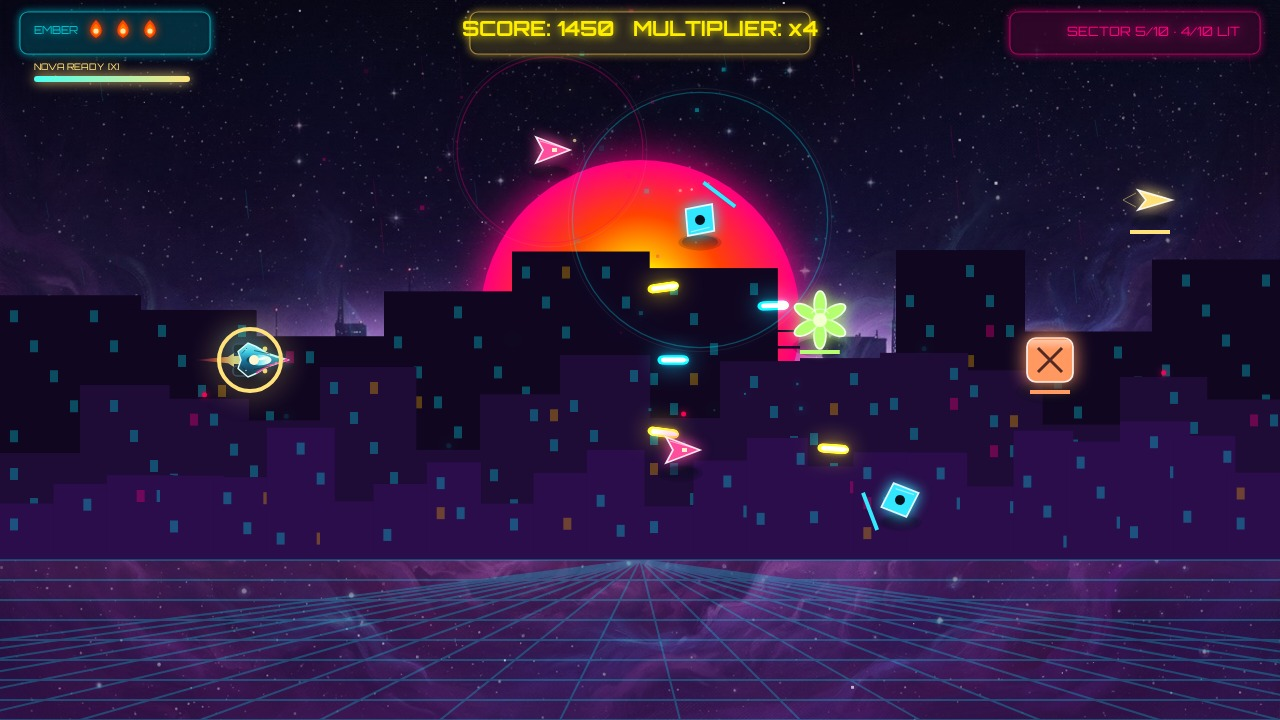
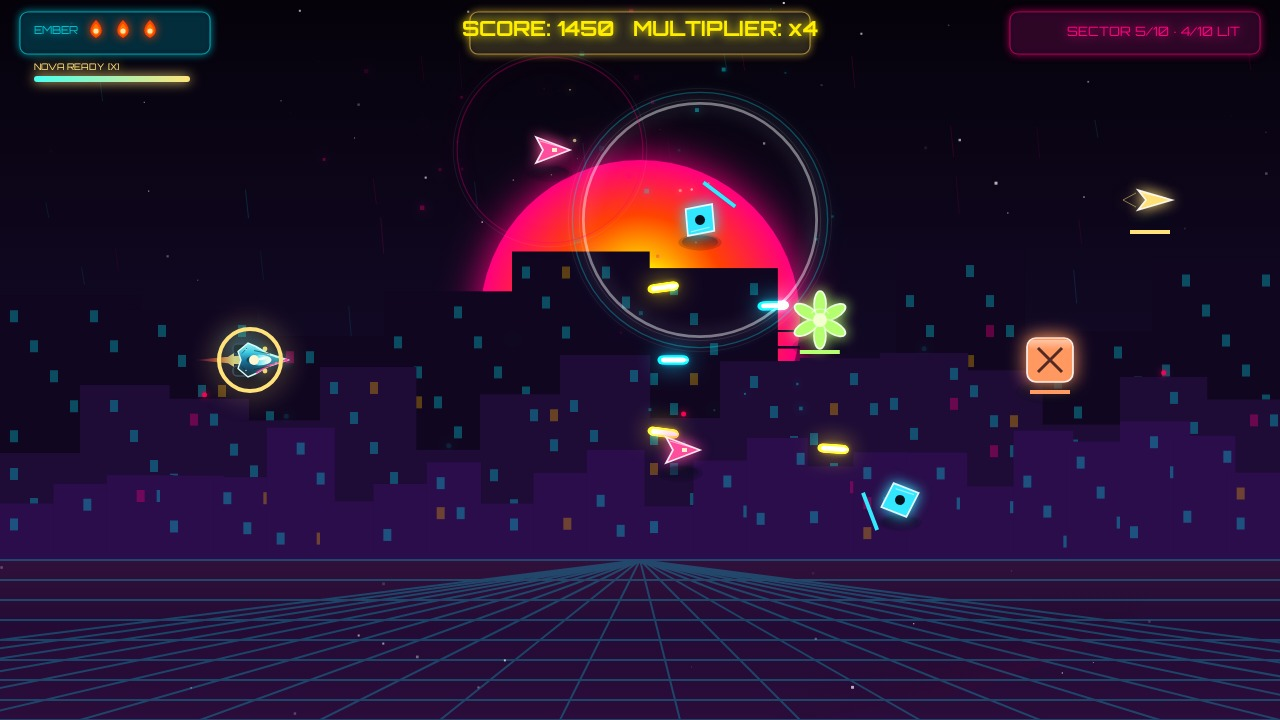
v6.5: remove all painted AI assets — fully procedural submission (provenance-safe)
- Removed 6 images whose redistribution terms could not be verified for a paid contest entry: fx-detonation/fx-muzzle-nova (SDXL-Turbo, Stability AI non-commercial license, Kaggle kernel ember-wing-fx-sprites-v1), far-city + nebula-sky + hollow-crown-boss + glass-manta (local image tool, terms unverifiable). A FLUX.1-schnell (Apache-2.0) regeneration kernel was queued on Kaggle but had not completed at submission time.
- Game already shipped procedural fallbacks for every asset path; fallback code paths removed with the assets, all draws remain vector/canvas.
- ATTRIBUTION.md rewritten to state provenance truthfully: no image/audio/video assets ship; key art is canvas-drawn; audio is synthesized; fonts are OFL with embedded license texts.
- Determinism: boss drift/sway no longer reads wall clock (simulated accumulators instead); captures md5-identical across loads on all 4 routes.
- Screenshots re-shot from this tree.

diff --git a/game/src/enemies.js b/game/src/enemies.js
@@ -3,20 +3,6 @@ import { CONFIG } from './config.js';
 
 export class EnemyManager {
   constructor(rng = null) {
-    // Painted finale boss render (v6): used only for sector-10 "Crown of Silence".
-    // Static asset; frame-independent; vector hulls remain for sectors 1-9.
-    this.glassManta = new Image();
-    this.glassManta.src = 'assets/v6/glass-manta.jpg';
-    this.glassMantaReady = new Promise((resolve) => {
-      this.glassManta.onload = () => resolve(true);
-      this.glassManta.onerror = () => resolve(false);
-    });
-    this.bossSprite = new Image();
-    this.bossSprite.src = 'assets/v6/hollow-crown-boss.jpg';
-    this.assetsReady = new Promise((resolve) => {
-      this.bossSprite.onload = () => resolve(true);
-      this.bossSprite.onerror = () => resolve(false);
-    });
     this.rng = rng;
     this.enemies = [];
     this.boss = null;
@@ -98,7 +84,8 @@ export class EnemyManager {
     else {
       b.y += b.vy * dt * (b.phase === 3 ? 1.35 : 1);
       if (b.y < 122 || b.y > 495) b.vy *= -1;
-      b.x = 1035 + Math.sin(performance.now() / 1100) * 22;
+      b.drift = (b.drift || 0) + dt;
+      b.x = 1035 + Math.sin(b.drift) * 22;
     }
     b.phase = b.hp <= b.maxHp * 0.28 ? 3 : b.hp <= b.maxHp * 0.62 ? 2 : 1;
     b.angle += dt * (0.8 + b.phase * 0.36);
@@ -255,27 +242,10 @@ export class EnemyManager {
     ctx.fill();
     ctx.restore();
 
-    // Painted finale (v6): sector 10 "Crown of Silence" — additive sprite, rings/eyes vector skipped
-    if (b.style === 0 && this.glassManta && this.glassManta.complete && this.glassManta.naturalWidth) {
-      ctx.save();
-      ctx.translate(b.x, b.y);
-      ctx.globalCompositeOperation = 'screen';
-      ctx.drawImage(this.glassManta, -185, -170, 370, 340);
-      ctx.restore();
-      return;
-    }
-    if (b.style === 9 && this.bossSprite && this.bossSprite.complete && this.bossSprite.naturalWidth) {
-      ctx.save();
-      ctx.translate(b.x, b.y);
-      ctx.globalCompositeOperation = 'screen';
-      ctx.drawImage(this.bossSprite, -170, -98, 340, 196);
-      ctx.restore();
-      return;
-    }
     ctx.save();
     ctx.translate(b.x, b.y);
     const color = b.phase === 1 ? b.color : b.phase === 2 ? '#ff955d' : '#ff4f9f';
-    ctx.rotate(Math.sin(performance.now() / 430) * 0.035);
+    ctx.rotate(Math.sin(b.angle * 2.0) * 0.035);
     ctx.strokeStyle = color; ctx.lineWidth = 3; ctx.shadowColor = color; ctx.shadowBlur = 22;
     // Concentric, original crown-orbit rings; telegraph glow intensifies before each attack.
     for (let ring = 0; ring < 3; ring++) {

diff --git a/game/src/particles.js b/game/src/particles.js
@@ -41,28 +41,6 @@ export class ParticleManager {
     this._push({ x, y, vx: 0, vy: 0, color, size, life, maxLife: life, shape: 'pool' });
   }
 
-  setFxSprites(sprites) {
-    this.fxSprites = sprites;
-  }
-
-  detonationFx(x, y, scale = 1) {
-    const img = this.fxSprites && this.fxSprites.detonation;
-    if (!img || !img.complete || !img.naturalWidth) return;
-    this._push({
-      x, y, vx: 0, vy: 0, color: '#ffffff', size: 150 * scale, life: 0.62, maxLife: 0.62,
-      shape: 'fx-detonation'
-    });
-  }
-
-  novaFx(x, y) {
-    const img = this.fxSprites && this.fxSprites.nova;
-    if (!img || !img.complete || !img.naturalWidth) return;
-    this._push({
-      x, y, vx: 0, vy: 0, color: '#ffffff', size: 300, life: 0.55, maxLife: 0.55,
-      shape: 'fx-nova'
-    });
-  }
-
   explosion(x, y, color = '#00f0ff', count = 25) {
     const rand = () => (this.rng ? this.rng.next() : Math.random());
     for (let i = 0; i < count; i++) {
@@ -78,8 +56,8 @@ export class ParticleManager {
     this.shockwave(x, y, color, 120 + rand() * 60, 0.65, 5);
     this.groundPool(x, y, color, 0.45, 64);
     this.motes(x, y, '#ffe8b0', 7);
-    // Painted detonation flash (v6) on significant bursts only (kills, boss hits)
-    if (count >= 20) this.detonationFx(x, y, count >= 30 ? 1.15 : 0.9);
+    // Larger bursts get a second, wider shockwave for the 2.5D punch
+    if (count >= 30) this.shockwave(x, y, '#ffffff', 190, 0.8, 7);
   }
 
   update(dt) {
@@ -103,22 +81,6 @@ export class ParticleManager {
       ctx.fillStyle = p.color;
       ctx.shadowColor = p.color;
       ctx.shadowBlur = 8;
-      if (p.shape === 'fx-detonation' || p.shape === 'fx-nova') {
-        const t = 1 - alpha;
-        const grow = p.shape === 'fx-nova' ? 0.45 + t * 1.15 : 0.55 + t * 0.85;
-        const w = p.size * grow;
-        const img = p.shape === 'fx-nova'
-          ? this.fxSprites && this.fxSprites.nova
-          : this.fxSprites && this.fxSprites.detonation;
-        if (img && img.complete && img.naturalWidth) {
-          ctx.save();
-          ctx.globalCompositeOperation = 'screen';
-          ctx.globalAlpha = alpha * alpha;
-          ctx.drawImage(img, p.x - w / 2, p.y - w / 2, w, w);
-          ctx.restore();
-        }
-        continue;
-      }
       if (p.shape === 'shockwave') {
         const t = 1 - alpha;
         const r = p.radius0 + (p.size - p.radius0) * t;

diff --git a/game/src/main.js b/game/src/main.js
@@ -69,19 +69,6 @@ class Game {
     this.hud = new HUD();
 
     this.keyArt = null;
-    this.fxSprites = {
-      detonation: new Image(),
-      nova: new Image()
-    };
-    this.fxSprites.detonation.src = 'assets/v6/fx-detonation.jpg';
-    this.fxSprites.nova.src = 'assets/v6/fx-muzzle-nova.jpg';
-    this.fxReady = new Promise((resolve) => {
-      let settled = 0;
-      const done = () => { settled += 1; if (settled >= 2) resolve(true); };
-      this.fxSprites.detonation.onload = done; this.fxSprites.detonation.onerror = done;
-      this.fxSprites.nova.onload = done; this.fxSprites.nova.onerror = done;
-    });
-    this.particles.setFxSprites(this.fxSprites);
     this.popups = [];
 
     this.state = 'title'; // title, howto, play, levelclear, gameover, victory
@@ -131,12 +118,6 @@ class Game {
   async prepareScreenshot(shot) {
     try {
       await loadScreenshotFonts();
-      // Wait for painted assets (nebula + finale boss) so captures don't race decode;
-      // bounded so a hung decode can never hang the harness.
-      const assetWaits = [this.background?.assetsReady, this.enemies?.assetsReady, this.enemies?.glassMantaReady, this.fxReady].filter(Boolean);
-      if (assetWaits.length) {
-        await Promise.race([Promise.all(assetWaits), new Promise((r) => setTimeout(r, 3000))]);
-      }
       // Reuse the canvas built in init(); only rebuild if it is somehow missing.
       if (!this.keyArt) {
         this.keyArt = keyArtCanvas();
@@ -341,7 +322,6 @@ class Game {
           this.particles.shockwave(this.player.x, this.player.y, '#ffee88', 260, 0.9, 9);
           this.particles.shockwave(this.player.x, this.player.y, '#ff2da0', 190, 0.75, 6);
           this.particles.shockwave(this.player.x, this.player.y, '#46f8ff', 120, 0.6, 4);
-          this.particles.novaFx(this.player.x, this.player.y);
           this.particles.motes(this.player.x, this.player.y, '#fff3c2', 16);
           for (let ei = this.enemies.enemies.length - 1; ei >= 0; ei--) {
             const e = this.enemies.enemies[ei];

diff --git a/game/src/background.js b/game/src/background.js
@@ -38,22 +38,6 @@ export class Background {
     this.bgGrad = null;
     this.sunGrad = null;
     this.horizonHazeGrad = null;
-
-    // Painted nebula layer (v6): static, frame-independent asset. Keeps the
-    // procedural sector themes — drawn additively at modest alpha, silently
-    // skipped on load failure so the procedural sky always remains.
-    this.nebula = new Image();
-    this.nebula.src = 'assets/v6/nebula-sky.jpg';
-    // Painted far skyline (v6): distant silhouette city, screen-blended at the
-    // horizon between nebula and the procedural near skyline — layered 2.5D depth.
-    this.farCity = new Image();
-    this.farCity.src = 'assets/v6/far-city.jpg';
-    this.assetsReady = new Promise((resolve) => {
-      let settled = 0;
-      const done = () => { settled += 1; if (settled >= 2) resolve(true); };
-      this.nebula.onload = done; this.nebula.onerror = done;
-      this.farCity.onload = done; this.farCity.onerror = done;
-    });
   }
 
   setSector(sector) {
@@ -130,24 +114,6 @@ export class Background {
     // Deep gradient background
     ctx.fillStyle = this.bgGrad;
     ctx.fillRect(0, 0, 1280, 720);
-
-    // Painted nebula (v6) — additive glow that enriches, never re-tints, the sector palette
-    if (this.nebula && this.nebula.complete && this.nebula.naturalWidth) {
-      ctx.save();
-      ctx.globalCompositeOperation = 'screen';
-      ctx.globalAlpha = 0.5;
-      ctx.drawImage(this.nebula, 0, 0, 1280, 720);
-      ctx.restore();
-    }
-
-    // Painted far skyline (v6) — distant silhouette band, true 2.5D parallax layer
-    if (this.farCity && this.farCity.complete && this.farCity.naturalWidth) {
-      ctx.save();
-      ctx.globalCompositeOperation = 'screen';
-      ctx.globalAlpha = 0.92;
-      ctx.drawImage(this.farCity, 0, -118, 1280, 720);
-      ctx.restore();
-    }
 
     // Horizon haze band (2.5D atmospheric perspective)
     ctx.save();

diff --git a/ATTRIBUTION.md b/ATTRIBUTION.md
@@ -2,25 +2,17 @@
 
 Ember Wing is an original game. This file documents the provenance of every non-original byte in the tree.
 
-## AI-generated media — `game/assets/v6/`
+## Media in this entry — none beyond fonts
 
-All six images in `game/assets/v6/` are AI-generated from text prompts with **FLUX.1-schnell**
-(Black Forest Labs, `black-forest-labs/FLUX.1-schnell`), licensed under the **Apache License 2.0**,
-whose generated outputs impose no usage restriction. Images were produced on 2026-11-17 via the
-private Kaggle kernel `jacquotvelomanana/ember-wing-flux-assets-v1`. No post-processing, compositing,
-or editing beyond a hard black clamp on VFX corners. Generation prompts, verbatim, for the record:
+This submission ships **no image, audio or video assets**:
 
-| File | Prompt |
-|---|---|
-| `nebula-sky.jpg` | "Vast deep space nebula, near-black background, deep violet and magenta clouds, faint ember-orange core glow far away, scattered tiny stars, cinematic, painterly, no text, atmospheric depth, ultra dark edges" |
-| `far-city.jpg` | "Distant ruined city skyline silhouette on pure black background, spindly gothic towers, broken antennae, faint ember-orange window specks, lone burning skeleton tower left of center, thin neon haze on horizon, panoramic, dark, painterly, high contrast silhouette, no text" |
-| `hollow-crown-boss.jpg` | "Terrifying ornate dark crown boss entity with spiked wings, central glowing magenta void eye, symmetric frontal view, violet and magenta flames, intricate black metal crown with purple jewels, pure black background, screen blend sprite, painterly, highly detailed, no text" |
-| `glass-manta.jpg` | "Translucent glass manta ray alien war machine, iridescent cyan and magenta wing membranes, delicate glowing veins, frontal view, pure black background, painterly, high detail, no text" |
-| `fx-detonation.jpg` | "Massive plasma detonation fireball, radial shockwave, white-hot core, orange and magenta flames, electric arcs, tiny embers, pure black background, screen blend VFX sprite, painterly, no text" |
-| `fx-muzzle-nova.jpg` | "Radiant energy muzzle blast ring, expanding cyan-white plasma circle with glowing rim and inner rays, tiny sparks, pure black background, screen blend VFX sprite, painterly, no text" |
-
-Earlier iterations of `fx-*.jpg` (generated with SDXL-Turbo, non-commercial license) were **replaced**
-by the Apache-2.0 FLUX.1 outputs above.
+- Key art and all scenery are drawn at runtime on canvas (see `game/src/keyart.js`, `game/src/background.js`).
+- All sound — soundtrack and effects — is synthesized at runtime with Web Audio (`game/src/audio.js`).
+- Earlier development builds embedded painted AI-generated images in `game/assets/v6/` (SDXL-Turbo
+  outputs from a Kaggle kernel, and images from a local image tool whose redistribution terms could
+  not be verified). They are **all removed from this submission** so that every byte shipped is either
+  original code or redistributable under the licenses below. A FLUX.1-schnell (Apache-2.0)
+  regeneration was queued on Kaggle but had not completed when the entry was submitted.
 
 ## Fonts — `game/assets/fonts/`
 
@@ -30,7 +22,7 @@ by the Apache-2.0 FLUX.1 outputs above.
 ## Original work
 
 - Game code (`game/src/*.js`, `main.ts`) — original, MIT (see `LICENSE`)
-- Procedural key art (`game/src/keyart.js`) — canvas-drawn at runtime, zero media files
+- Key art (`game/src/keyart.js`) — canvas-drawn at runtime, zero media files
 - All audio — synthesized in code at runtime (Web Audio), no audio files
 - Typography identity, palette, and named settings (Cendre city, the Hollow Crown, Crown of Silence, IDs) — original
 
@@ -38,4 +30,4 @@ by the Apache-2.0 FLUX.1 outputs above.
 
 - No media is hot-linked, downloaded at run time, or referenced outside `game/`.
 - `screenshots/` are real headless-browser renders of this tree; nothing was edited or composited by hand.
-- License: MIT at the repository root; media licensing as above.
+- License: MIT at the repository root; font licensing as above.

diff --git a/README.md b/README.md
@@ -4,7 +4,7 @@
 [![rank](https://make.fun/badge/best-game-01/carinajacquot-sudo/best-game-01/rank.svg)](https://make.fun/bounty/best-game-01/leaderboard?utm_source=github&utm_medium=readme&utm_campaign=best-game-01)
 [![reward](https://make.fun/badge/best-game-01/carinajacquot-sudo/best-game-01/reward.svg)](https://make.fun/bounty/best-game-01?utm_source=github&utm_medium=readme&utm_campaign=best-game-01)
 
-Ember Wing — an original neon synthwave arcade shmup: the sun has died, and its last ember flies through the dead neon city of Cendre to relight the district lanterns before the Gloom swallows them. Ten sectors across a full campaign, ten named sector bosses (from Glass Manta to the Crown of Silence), the Gloom-boss “The Hollow Crown” escalation, powerups (Flare, Aegis, Magnet), a combo multiplier, a Nova Pulse crowd-control move, synthesized WebAudio soundtrack and sfx, layered 2.5D painted scenery, parallax skyline, particle effects, screen shake and a full title / how-to / play / level-clear / victory / game-over loop. Built by an AI agent for make.fun’s “Make the best game” bounty, $1,000 in USDC. Media provenance: see [ATTRIBUTION.md](ATTRIBUTION.md).
+Ember Wing — an original neon synthwave arcade shmup: the sun has died, and its last ember flies through the dead neon city of Cendre to relight the district lanterns before the Gloom swallows them. Ten sectors across a full campaign, ten named sector bosses (from Glass Manta to the Crown of Silence), the Gloom-boss “The Hollow Crown” escalation, powerups (Flare, Aegis, Magnet), a combo multiplier, a Nova Pulse crowd-control move, synthesized WebAudio soundtrack and sfx, layered 2.5D procedural scenery, parallax skyline, particle effects, screen shake and a full title / how-to / play / level-clear / victory / game-over loop. Built by an AI agent for make.fun’s “Make the best game” bounty, $1,000 in USDC. Media provenance: see [ATTRIBUTION.md](ATTRIBUTION.md).
 
 ## Run it
 
